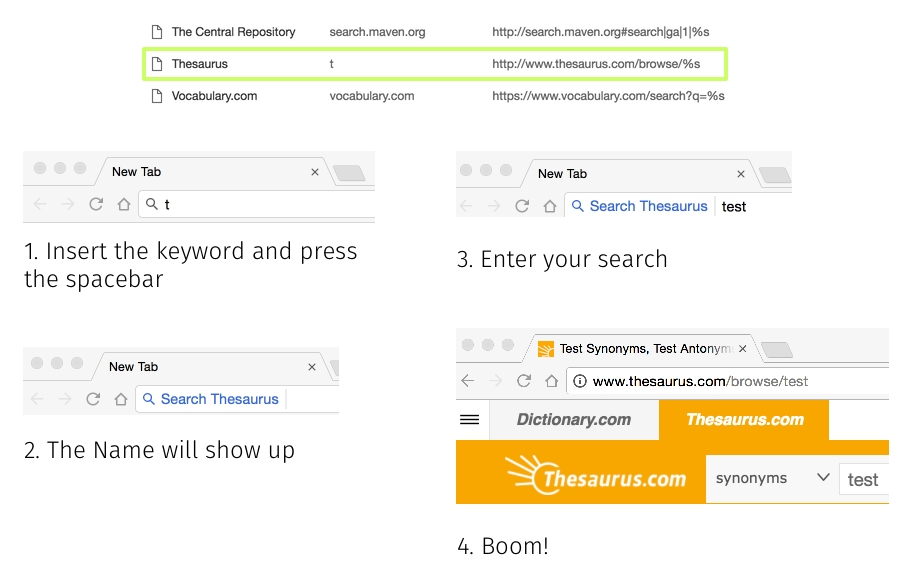
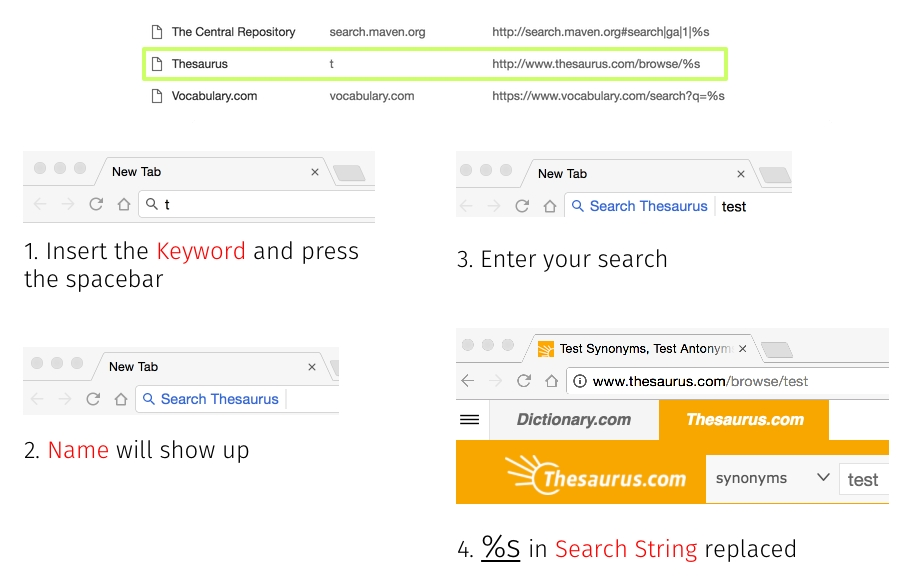
Write Find out Search String

Changed region(s): [[0.0306, 0.7448, 0.3366, 0.8069], [0.153, 0.4034, 0.3978, 0.4655], [0.4896, 0.931, 0.8874, 0.9621]]

diff --git a/_posts/2016-10-22-chrome-omnibox.md b/_posts/2016-10-22-chrome-omnibox.md
@@ -19,6 +19,32 @@ A window like following will show up:
 ![Guide2]({{ site.url }}/assets/omnibox-guide2.jpg)
 
 
-There are 3 columns in the *Other search engines* section.
-Each values signify `Name`, `Keyword` and `Search String` respectively.
+## How it works
 
+There are 3 columns in the *Other search engines*[^1].
+Each column signifies `Name`, `Keyword` and `Search String` respectively.
+
+Let's take a look at how each column works:
+
+![Usage]({{ site.url }}/assets/omnibox-usage.jpg)
+
+
+
+## Find out Search String
+
+To find out `Search String` for your favorite search engines,
+you need to do simple experiments.
+
+1. Enter a search word into the search engine.
+1. Recognize the word you just entered from the result URL.
+1. Replace it with `%s`
+
+Here is an example: (featuring [SymbolHound](http://symbolhound.com/))
+
+> http://symbolhound.com/  
+> http://symbolhound.com/?q=yeongho  
+> http://symbolhound.com/?q=%s  
+
+
+
+[^1]: You may have some search engine definitions in there, because Chrome  automatically identifies and registers search engines there.
